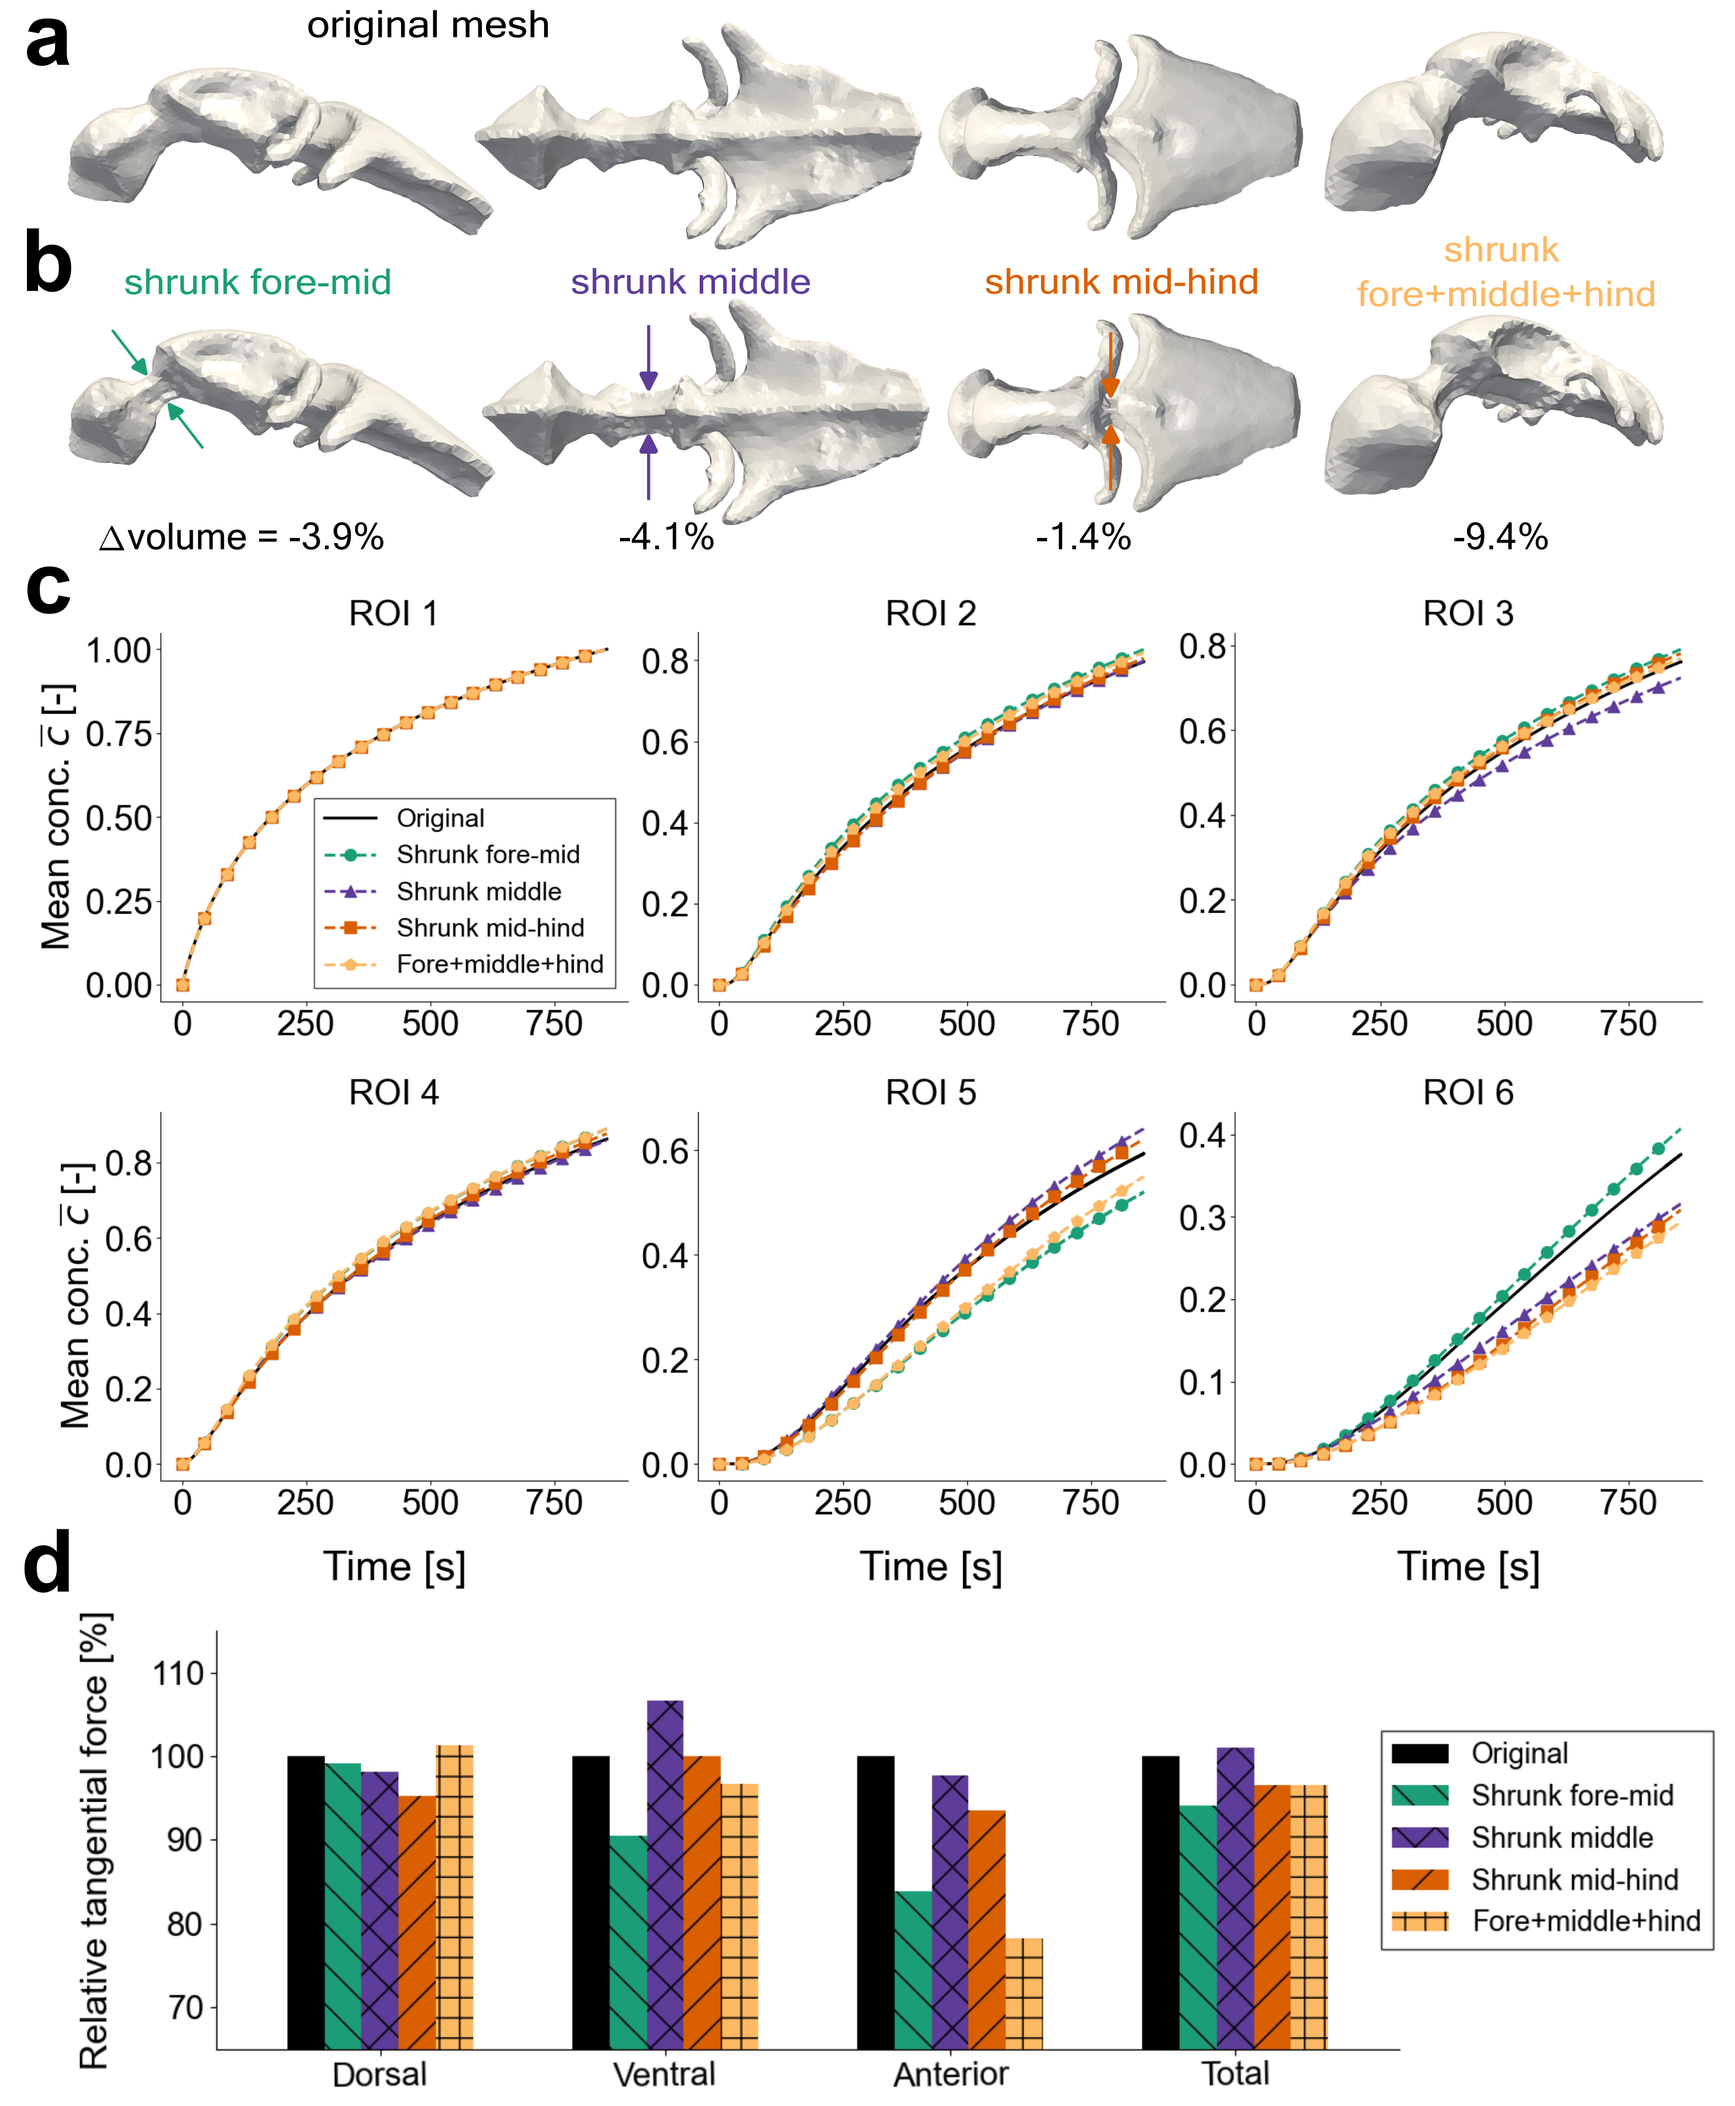
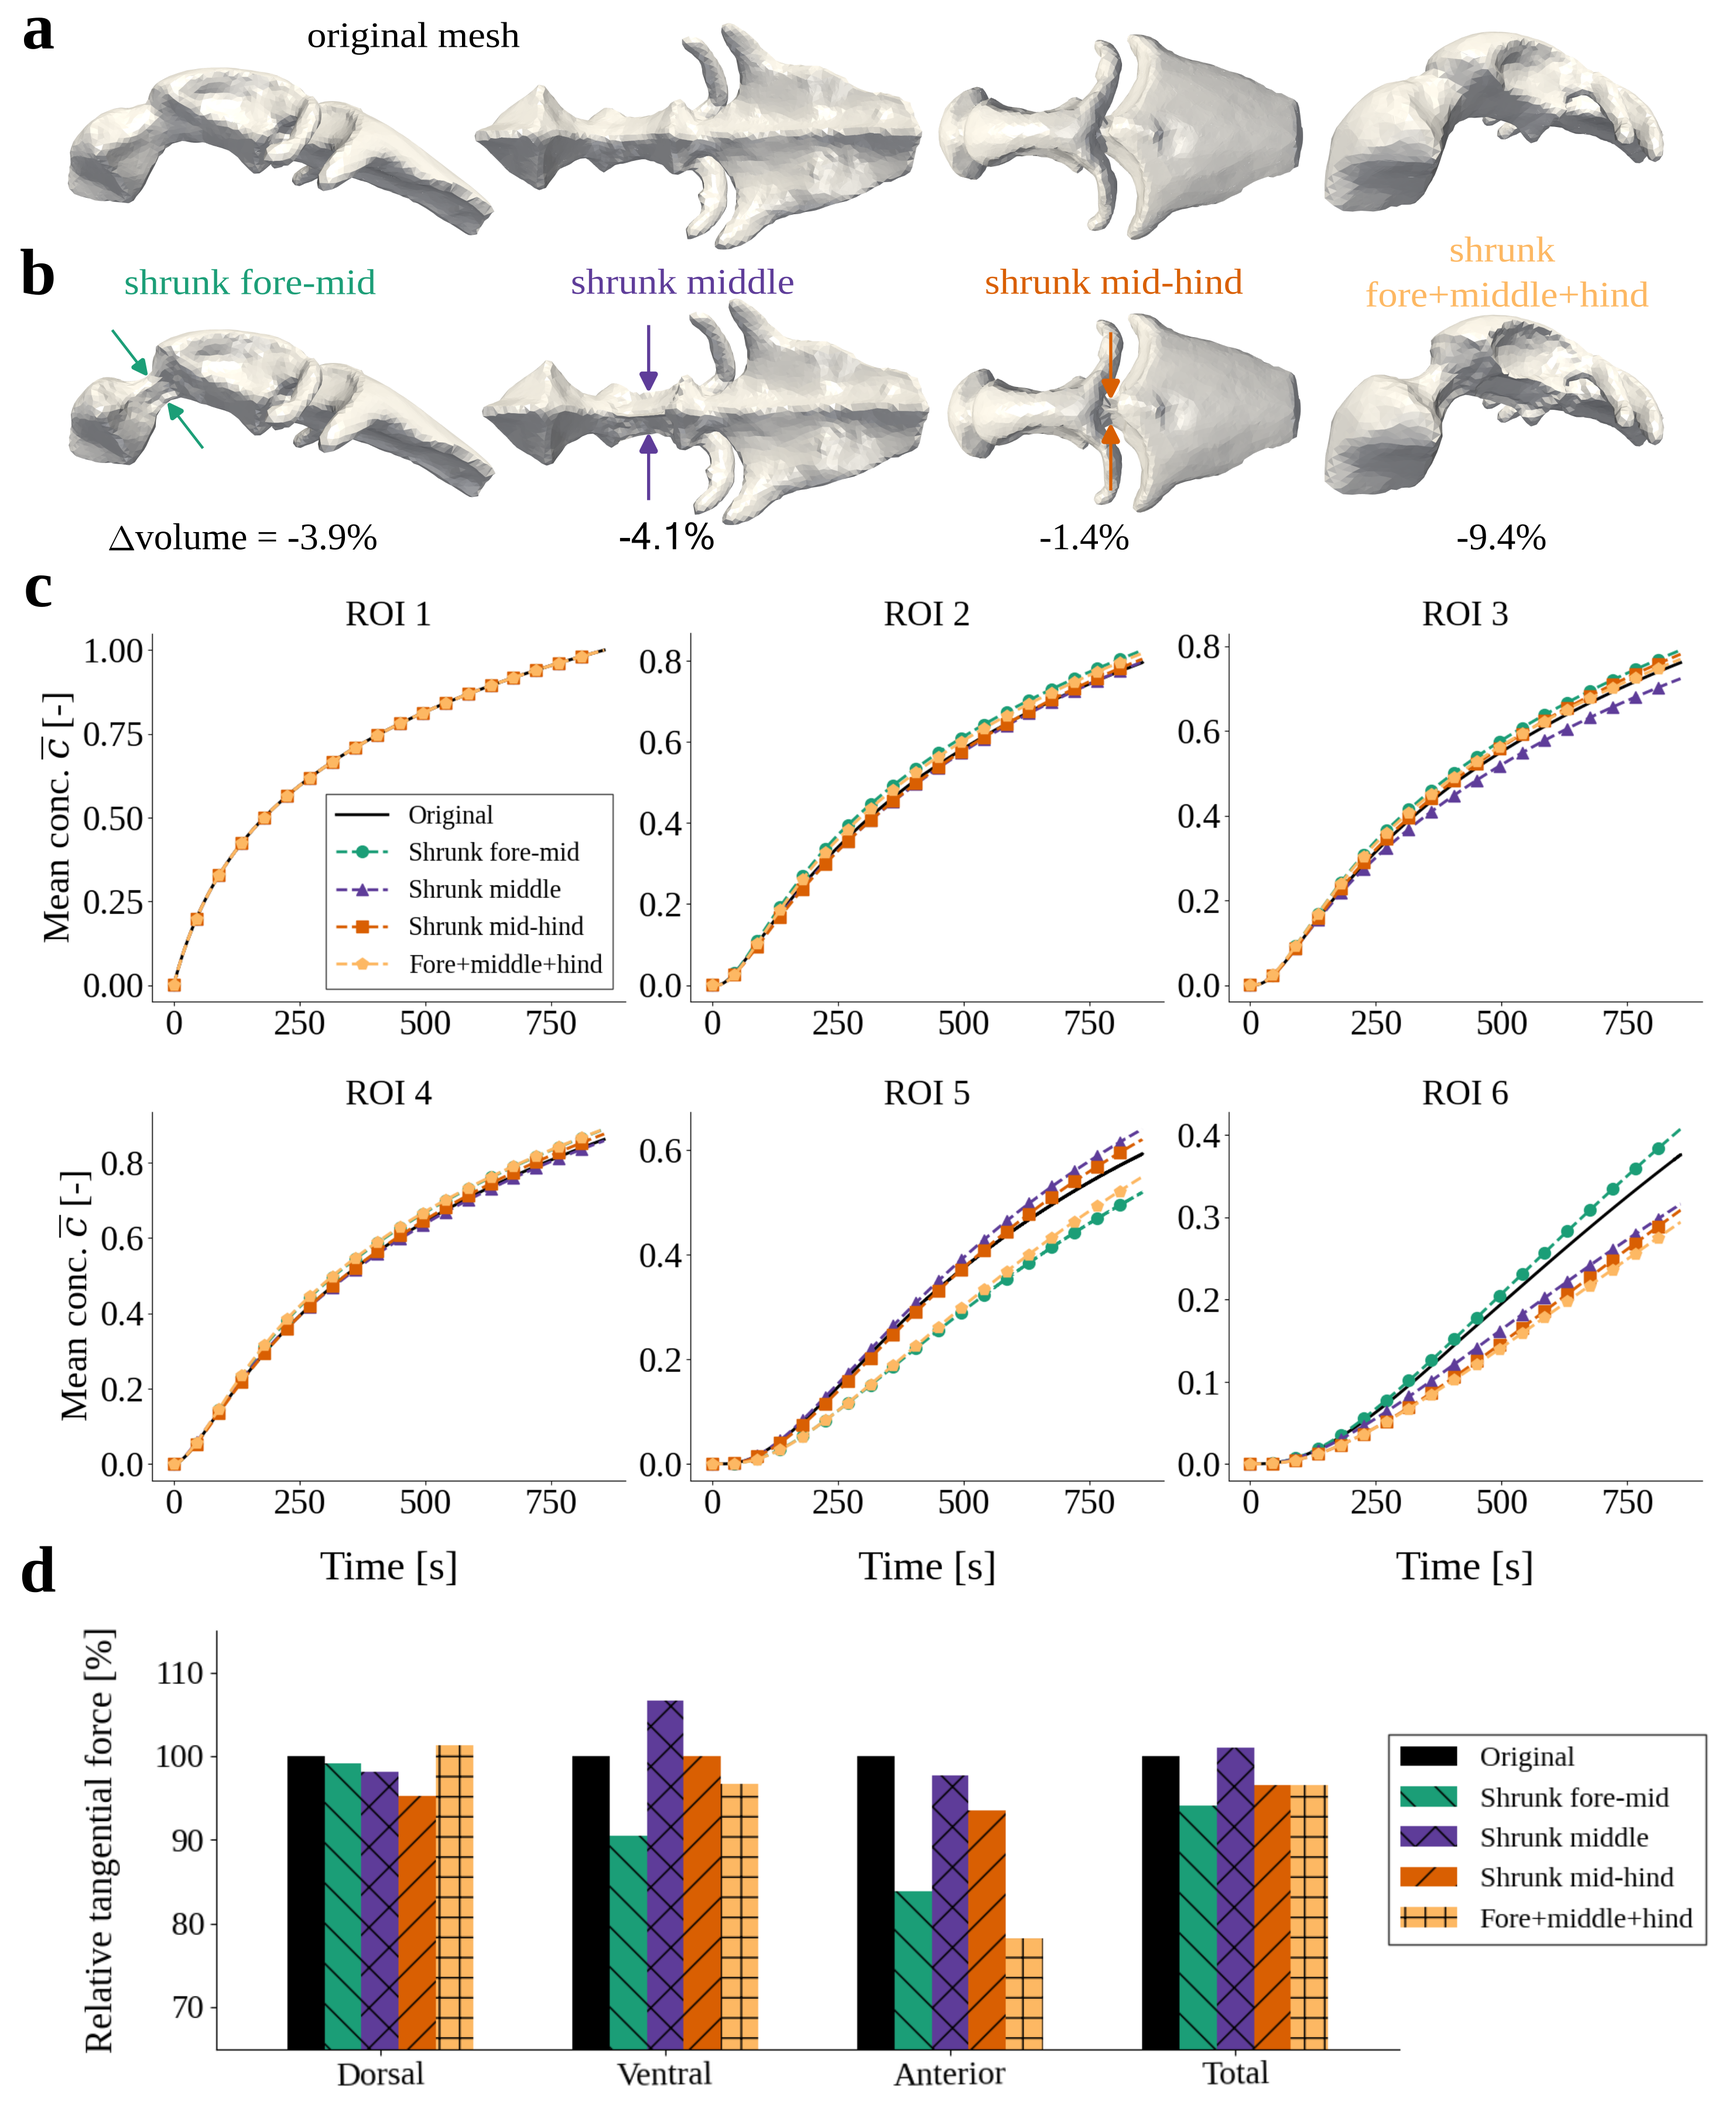
update fonts

diff --git a/src/plot_mean_concentration_and_time_to_threshold.py b/src/plot_mean_concentration_and_time_to_threshold.py
@@ -12,11 +12,11 @@ from utilities.mesh import create_ventricle_volumes_meshtags
 
 # Set matplotlib properties
 plt.rcParams.update({
-    "font.family" : "Arial",
+    "font.family" : "Liberation Serif",
+    "mathtext.fontset" : "dejavuserif",
     "axes.spines.top" : False,
     "axes.spines.right" : False
 })
-plt.rcParams['text.latex.preamble'] += '\\usepackage{sfmath}' # Enable sans-serif math font
 
 comm = MPI.COMM_WORLD # MPI Communicator
 gm   = dfx.mesh.GhostMode.shared_facet
@@ -127,10 +127,10 @@ for bar_container, hatch in zip(bars.containers, hatches):
     for bar in bar_container:
         bar.set_hatch(hatch)
 
-ax2.set_xlabel("ROI number", fontsize=32, labelpad=25)
-ax2.set_ylabel(r"Time to threshold $\hat{t}$ [s]", fontsize=32, labelpad=50)
-ax2.tick_params(labelsize=35)
-ax2.legend(labels=[r'$D_1$', r'$D_2$', r'$D_3$'], loc='upper left', fontsize=32, frameon=True, fancybox=False, edgecolor='k')
+ax2.set_xlabel("ROI number", fontsize=30, labelpad=25)
+ax2.set_ylabel(r"Time to threshold $\hat{t}$ [s]", fontsize=30, labelpad=50)
+ax2.tick_params(labelsize=26)
+ax2.legend(labels=[r'$D_1$', r'$D_2$', r'$D_3$'], loc='upper left', fontsize=30, frameon=True, fancybox=False, edgecolor='k')
 ax2.yaxis.tick_right()
 ax2.yaxis.label_position = ['Right']
 ax2.spines['right'].set_visible(True)

diff --git a/src/plot_compare_simulations_models.py b/src/plot_compare_simulations_models.py
@@ -10,11 +10,11 @@ from utilities.mesh import create_ventricle_volumes_meshtags
 
 # Set matplotlib properties
 plt.rcParams.update({
-    "font.family" : "Arial",
+    "font.family" : "Liberation Serif",
+    "mathtext.fontset" : "dejavuserif",
     "axes.spines.top" : False,
     "axes.spines.right" : False
 })
-plt.rcParams["text.latex.preamble"] += "\\usepackage{sfmath}" # Enable sans-serif math font
 
 comm = MPI.COMM_WORLD # MPI Communicator
 gm   = dfx.mesh.GhostMode.shared_facet
@@ -108,7 +108,7 @@ for idx, tag in enumerate(ROI_tags):
     textstr = r'${\hat{t}}_0$'+f'= {t_hatsC[idx]:.0f} s\n' + \
               r'${\hat{t}}_{\rm{II}}$'+f'= {t_hatsB[idx]:.0f} s' 
     props = dict(boxstyle='square', facecolor='white', alpha=0.5)
-    ca_c.text(0.05, 0.90, textstr, transform=ca_c.transAxes, fontsize=27, verticalalignment='top', bbox=props)
+    ca_c.text(0.05, 0.90, textstr, transform=ca_c.transAxes, fontsize=30, verticalalignment='top', bbox=props)
     
     ca_c.set_title(f'ROI {tag}', fontsize=35)
     ca_c.set_xticks([0, 250, 500, 750])

diff --git a/src/plot_sine_curve.py b/src/plot_sine_curve.py
@@ -5,11 +5,11 @@ plt.style.use('petroff10')
 
 # Set matplotlib properties
 plt.rcParams.update({
-    "font.family" : "Arial",
+    "font.family" : "Liberation Serif",
+    "mathtext.fontset" : "dejavuserif",
     "axes.spines.top" : False,
     "axes.spines.right" : False
 })
-print(plt.rcParams.keys())
 
 x = np.linspace(0, 1, 101)
 sine_curve = lambda t: np.sin(2*np.pi*t)
@@ -18,7 +18,7 @@ y = sine_curve(x)
 fig, ax = plt.subplots(figsize=[16, 7])
 
 ax.plot(x, y, linewidth=5)
-font = {'family': 'Arial',
+font = {'family': 'Liberation Serif',
         'size'  : 50}
 
 ax.set_xticks([0.0, 0.25, 0.50, 0.75, 1.00])
@@ -42,7 +42,7 @@ xs = [x1, x2, x3]
 ys = [y1, y2, y3]
 
 [ax.plot(x, y, color='k', marker='o', markersize=15) for x, y in zip(xs, ys)]
-bfont = {'family': 'Arial',
+bfont = {'family': 'Liberation Serif',
          'size'  : 50,
          'fontweight' : 'bold'}
 ax.text(xs[0], ys[0]*1.125, 'f, h', fontdict=bfont)

diff --git a/src/utilities/create_colormap.py b/src/utilities/create_colormap.py
@@ -46,14 +46,15 @@ if __name__=='__main__':
     import matplotlib
     import matplotlib.pyplot as plt
     import colormaps as cm
+    # Set matplotlib properties
     plt.rcParams.update({
-        "font.family" : "Arial",
+        "font.family" : "Liberation Serif",
+        "mathtext.fontset" : "dejavuserif",
         "axes.spines.top" : False,
         "axes.spines.right" : False
     })
-    plt.rcParams["text.latex.preamble"] += "\\usepackage{sfmath}"
 
-    bar_type = 1
+    bar_type = 2
 
     if bar_type==1:
         fig = plt.figure(figsize=(5.5, 1.5))

diff --git a/src/plot_mean_concentration.py b/src/plot_mean_concentration.py
@@ -11,11 +11,11 @@ from utilities.mesh import create_ventricle_volumes_meshtags
 
 # Set matplotlib properties
 plt.rcParams.update({
-    "font.family" : "Arial",
+    "font.family" : "Liberation Serif",
+    "mathtext.fontset" : "dejavuserif",
     "axes.spines.top" : False,
     "axes.spines.right" : False
 })
-plt.rcParams["text.latex.preamble"] += "\\usepackage{sfmath}" # Enable sans-serif math font
 
 comm = MPI.COMM_WORLD # MPI Communicator
 gm   = dfx.mesh.GhostMode.shared_facet

diff --git a/src/plot_compare_experiments_control_mutant.py b/src/plot_compare_experiments_control_mutant.py
@@ -8,11 +8,11 @@ from scipy.stats import mannwhitneyu
 
 # Set matplotlib properties
 plt.rcParams.update({
-    "font.family" : "Arial",
+    "font.family" : "Liberation Serif",
+    "mathtext.fontset" : "dejavuserif",
     "axes.spines.top" : False,
     "axes.spines.right" : False
 })
-plt.rcParams["text.latex.preamble"] += "\\usepackage{sfmath}" # Enable sans-serif math font
 
 # Set data directory and load .mat files
 data_dir = "../data/photoconversion_data/aggregated_data/"

diff --git a/src/plot_fluorescence_intensities.py b/src/plot_fluorescence_intensities.py
@@ -5,11 +5,11 @@ from scipy.io import loadmat
 
 # Set matplotlib properties
 plt.rcParams.update({
-    "font.family" : "Arial",
+    "font.family" : "Liberation Serif",
+    "mathtext.fontset" : "dejavuserif",
     "axes.spines.top" : False,
     "axes.spines.right" : False
 })
-plt.rcParams["text.latex.preamble"] += "\\usepackage{sfmath}" # Enable sans-serif math font
 
 # Set data directory and load .mat files
 data_dir = "../data/photoconversion_data/aggregated_data/"

diff --git a/src/plot_compare_simulations_geometry.py b/src/plot_compare_simulations_geometry.py
@@ -31,11 +31,11 @@ Author: Halvor Herlyng, 2024.
 
 # Set matplotlib properties
 plt.rcParams.update({
-    "font.family" : "Arial",
+    "font.family" : "Liberation Serif",
+    "mathtext.fontset" : "dejavuserif",
     "axes.spines.top" : False,
     "axes.spines.right" : False
 })
-plt.rcParams["text.latex.preamble"] += "\\usepackage{sfmath}" # Enable sans-serif math font
 
 comm = MPI.COMM_WORLD # MPI Communicator
 gm   = dfx.mesh.GhostMode.shared_facet

diff --git a/src/plot_compare_simulations_cilia_regions.py b/src/plot_compare_simulations_cilia_regions.py
@@ -11,7 +11,8 @@ from utilities.mesh import create_ventricle_volumes_meshtags
 
 # Set matplotlib properties
 plt.rcParams.update({
-    "font.family" : "Arial",
+    "font.family" : "Liberation Serif",
+    "mathtext.fontset" : "dejavuserif",
     "axes.spines.top" : False,
     "axes.spines.right" : False
 })

diff --git a/src/plot_cilia_force_bars.py b/src/plot_cilia_force_bars.py
@@ -5,7 +5,8 @@ import matplotlib.pyplot as plt
 
 # Set matplotlib properties
 plt.rcParams.update({
-    "font.family" : "Arial",
+    "font.family" : "Liberation Serif",
+    "mathtext.fontset" : "dejavuserif",
     "axes.spines.top" : False,
     "axes.spines.right" : False
 })
